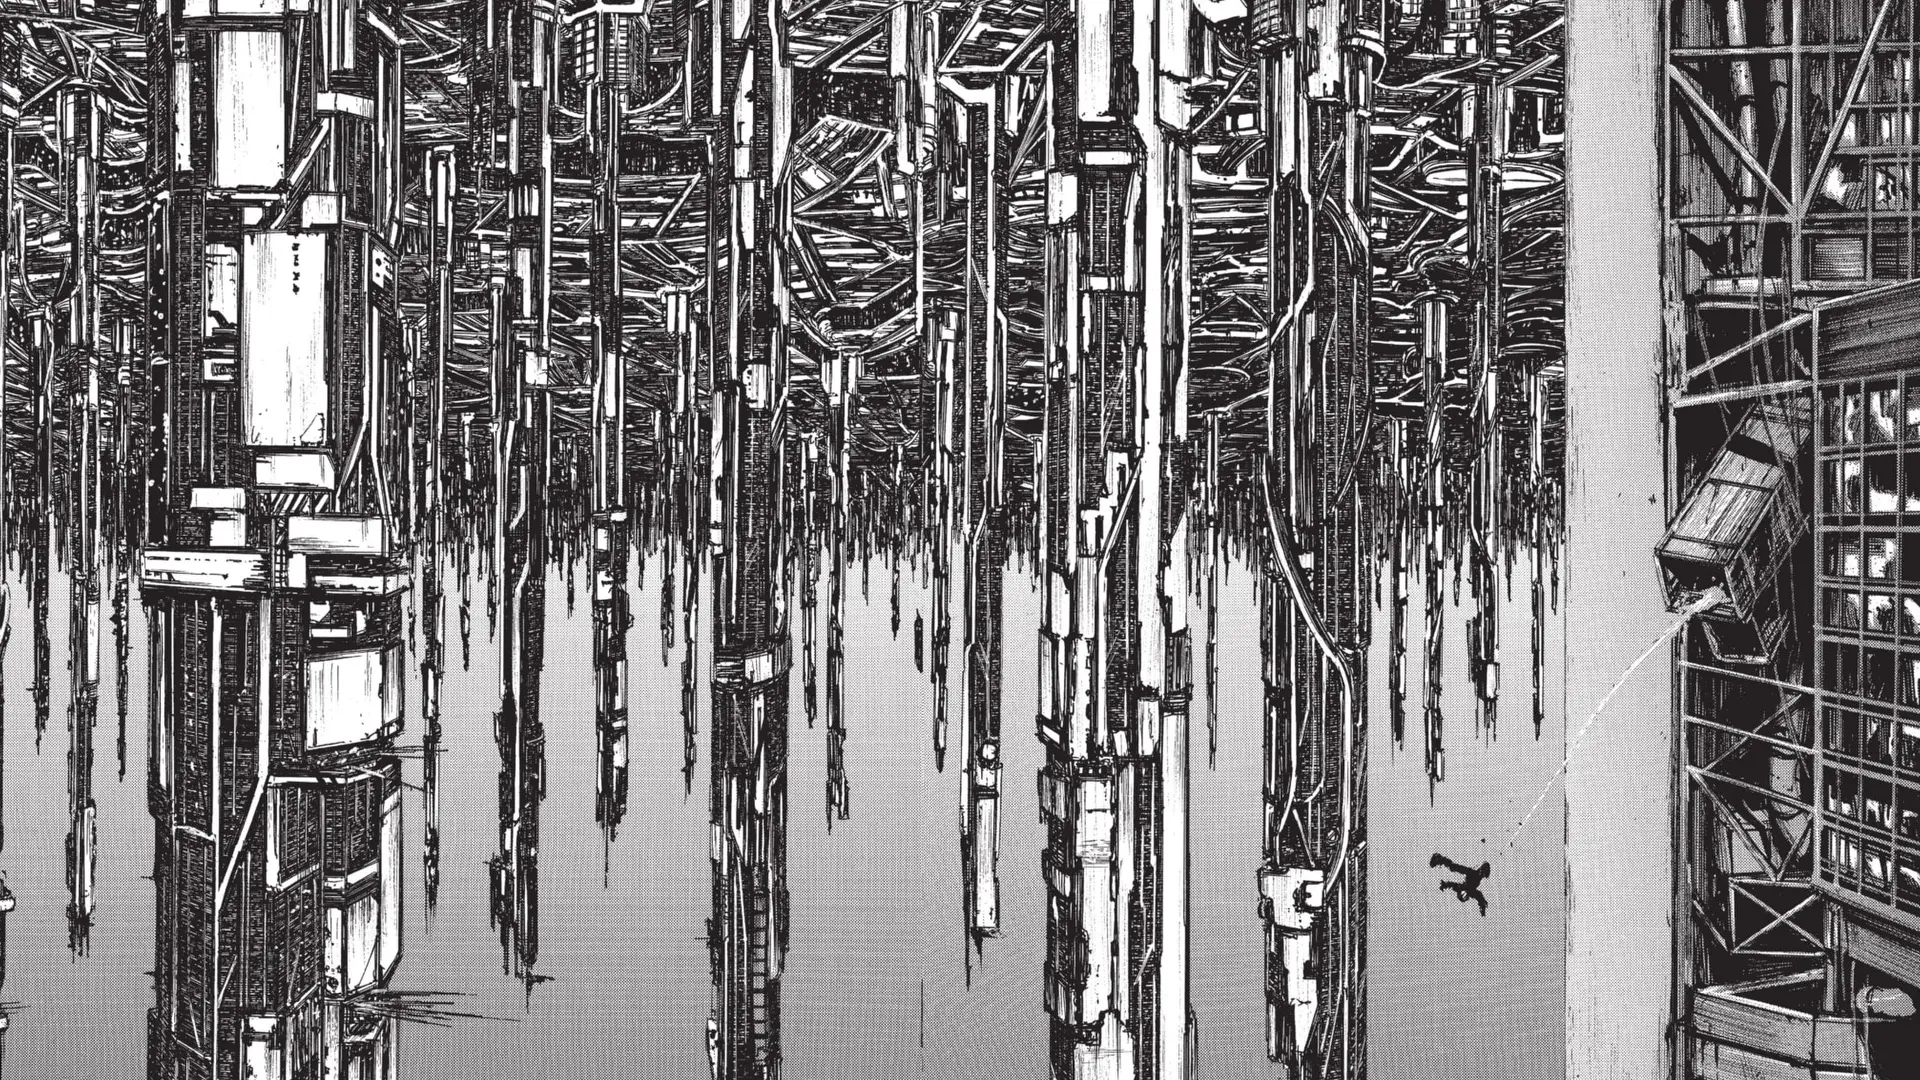
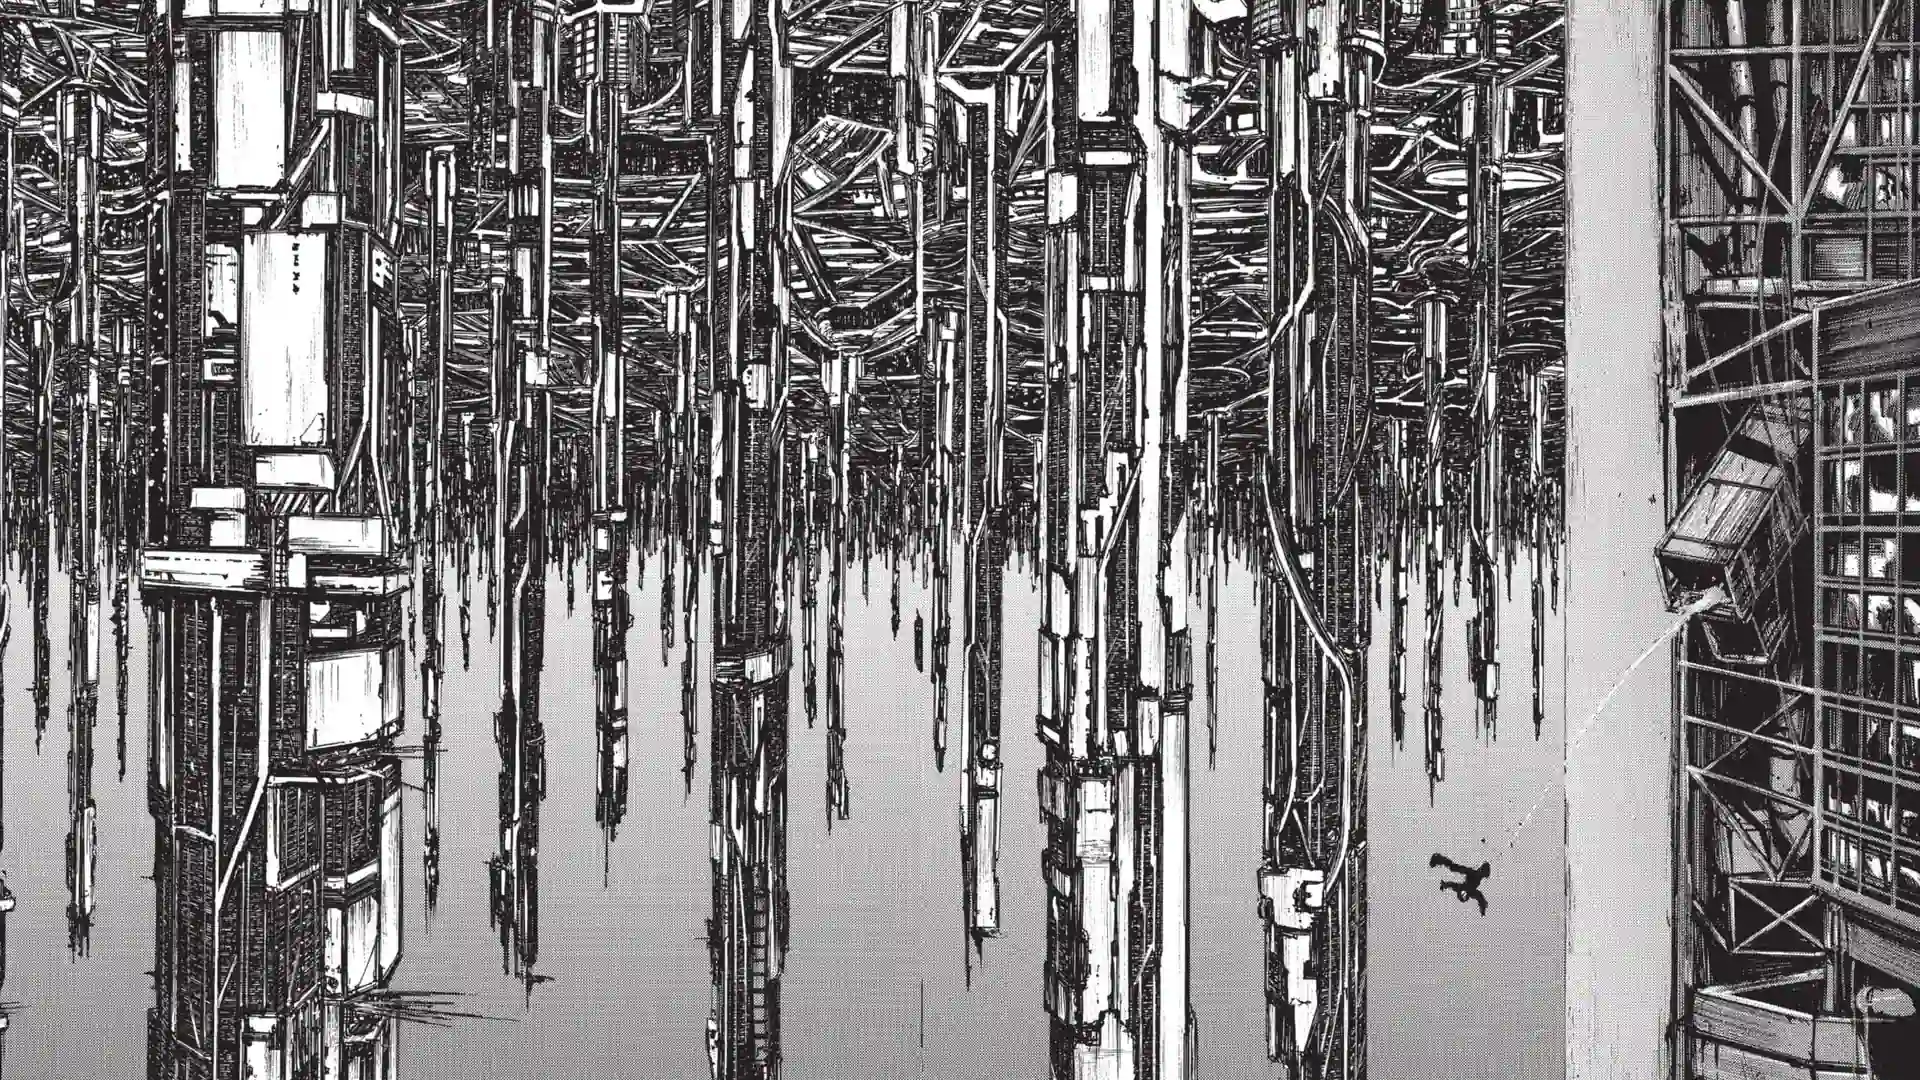
image compression changes

diff --git a/CvPageV2/src/App.tsx b/CvPageV2/src/App.tsx
@@ -26,14 +26,14 @@ import { DetailCard } from './components/DetailCard'
 import { DrawerTitle } from './components/DrawerTitle'
 import { DrawerContent } from './components/DrawerContent'
 import hobbiesVideo from './assets/videos/Manga 2(2).mp4'
-import davinciTimeline from './assets/misc/davinci_timeline_render.png'
+import davinciTimeline from './assets/misc/davinci_timeline_render.webp'
 import { ToolLink } from './components/ToolLink'
 import hobbiesPic from './assets/hobbies/IMG_3829.webp'
 import hobbiesPoster from './assets/misc/hobby_poster.webp'
 import mangaPic from './assets/misc/cb5b4a302ifa1.jpg'
 import ambergrid from './assets/misc/amber_1.jpg'
 import bronius from './assets/misc/BRONIUS.jpg'
-import JAS from "./assets/misc/JAS.jpg"
+import JAS from "./assets/misc/JAS.webp"
 import SlimeSoccer from "./assets/misc/slimesoccer.png"
 import codeRender from "./assets/misc/code_render.jpg"
 import dyplom from "./assets/misc/dyplom.webp"
